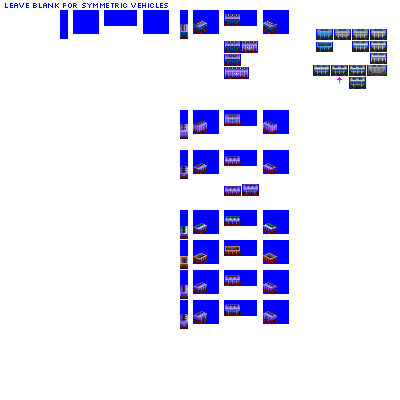
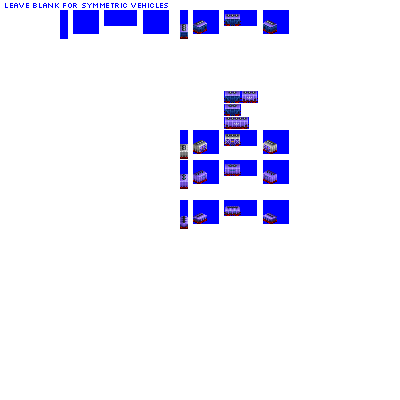
Change: improved sprites complete for 2 more covered hoppers

Changed region(s): [[0.45, 0.09, 0.72, 0.84], [0.78, 0.06, 0.99, 0.24]]

diff --git a/src/vehicles/pony/covered_hopper_cars_type_2_pony.py b/src/vehicles/pony/covered_hopper_cars_type_2_pony.py
@@ -10,7 +10,7 @@ def main(roster_id, **kwargs):
         base_numeric_id=24010,
         gen=2,
         subtype="A",
-        sprites_complete=False,
+        sprites_complete=True,
     )
 
     consist.add_unit(type=FreightCar, chassis="2_axle_gapped_16px")
@@ -21,7 +21,7 @@ def main(roster_id, **kwargs):
         base_numeric_id=17800,
         gen=3,
         subtype="A",
-        sprites_complete=False,
+        sprites_complete=True,
     )
 
     consist.add_unit(type=FreightCar, chassis="2_axle_gapped_16px")
